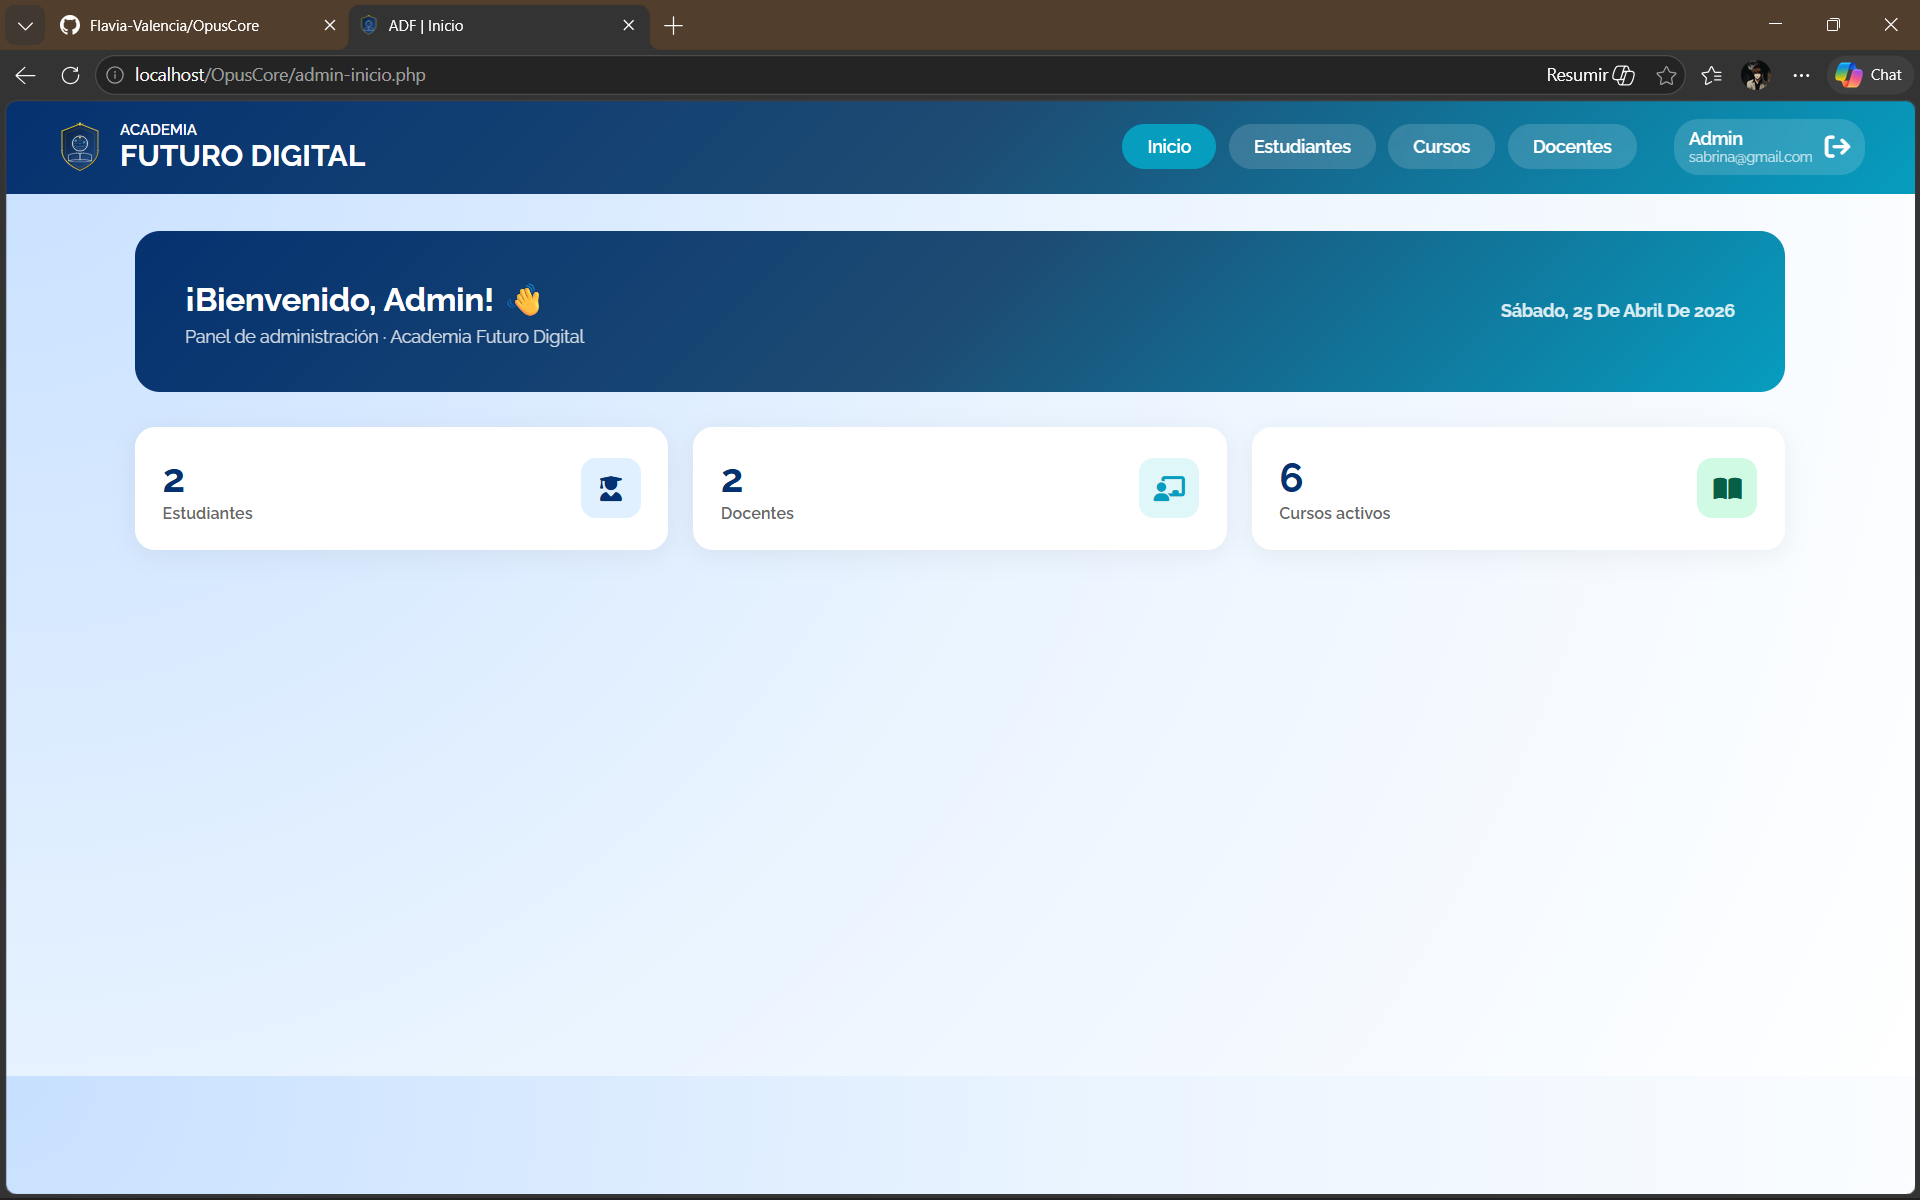
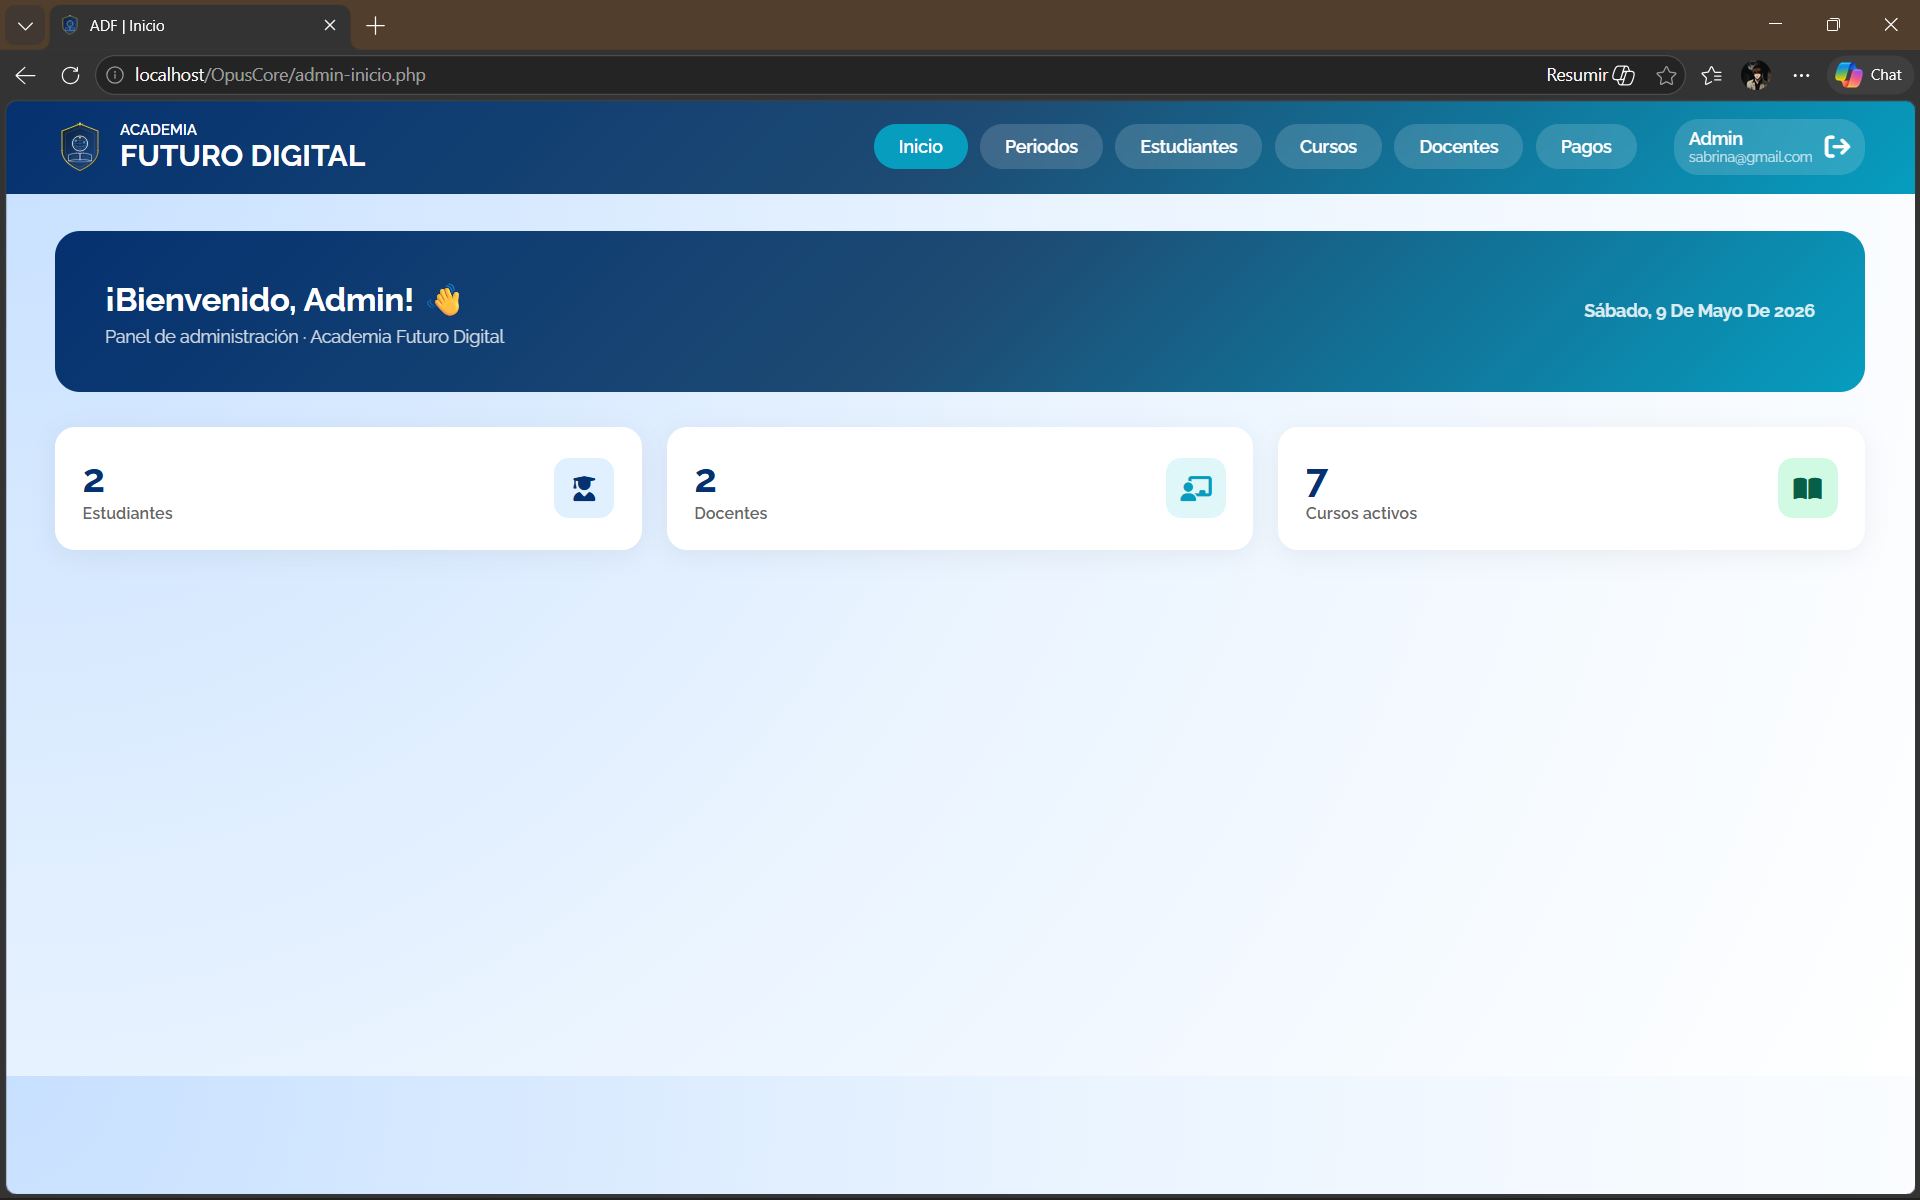
feat: actualizar evidencias sprint 3 docs: actualizar tecnologías utilizadas en README

diff --git a/README.md b/README.md
@@ -20,6 +20,9 @@ Diseñar un sistema que solucione las dificultades actuales en el ingreso de not
 - CSS -> Diseño visual
 - MySQL -> Base de Datos
 - XAMMP -> Entorno de desarrollo local
+- DomPDF -> Generación de archivos PDF
+- PHPMailer -> Envío de correos electrónicos
+- PayPal Sandbox (Developer Dashboard) -> Simulación de pagos en línea
 
 
 ## Instalación y Ejecución
